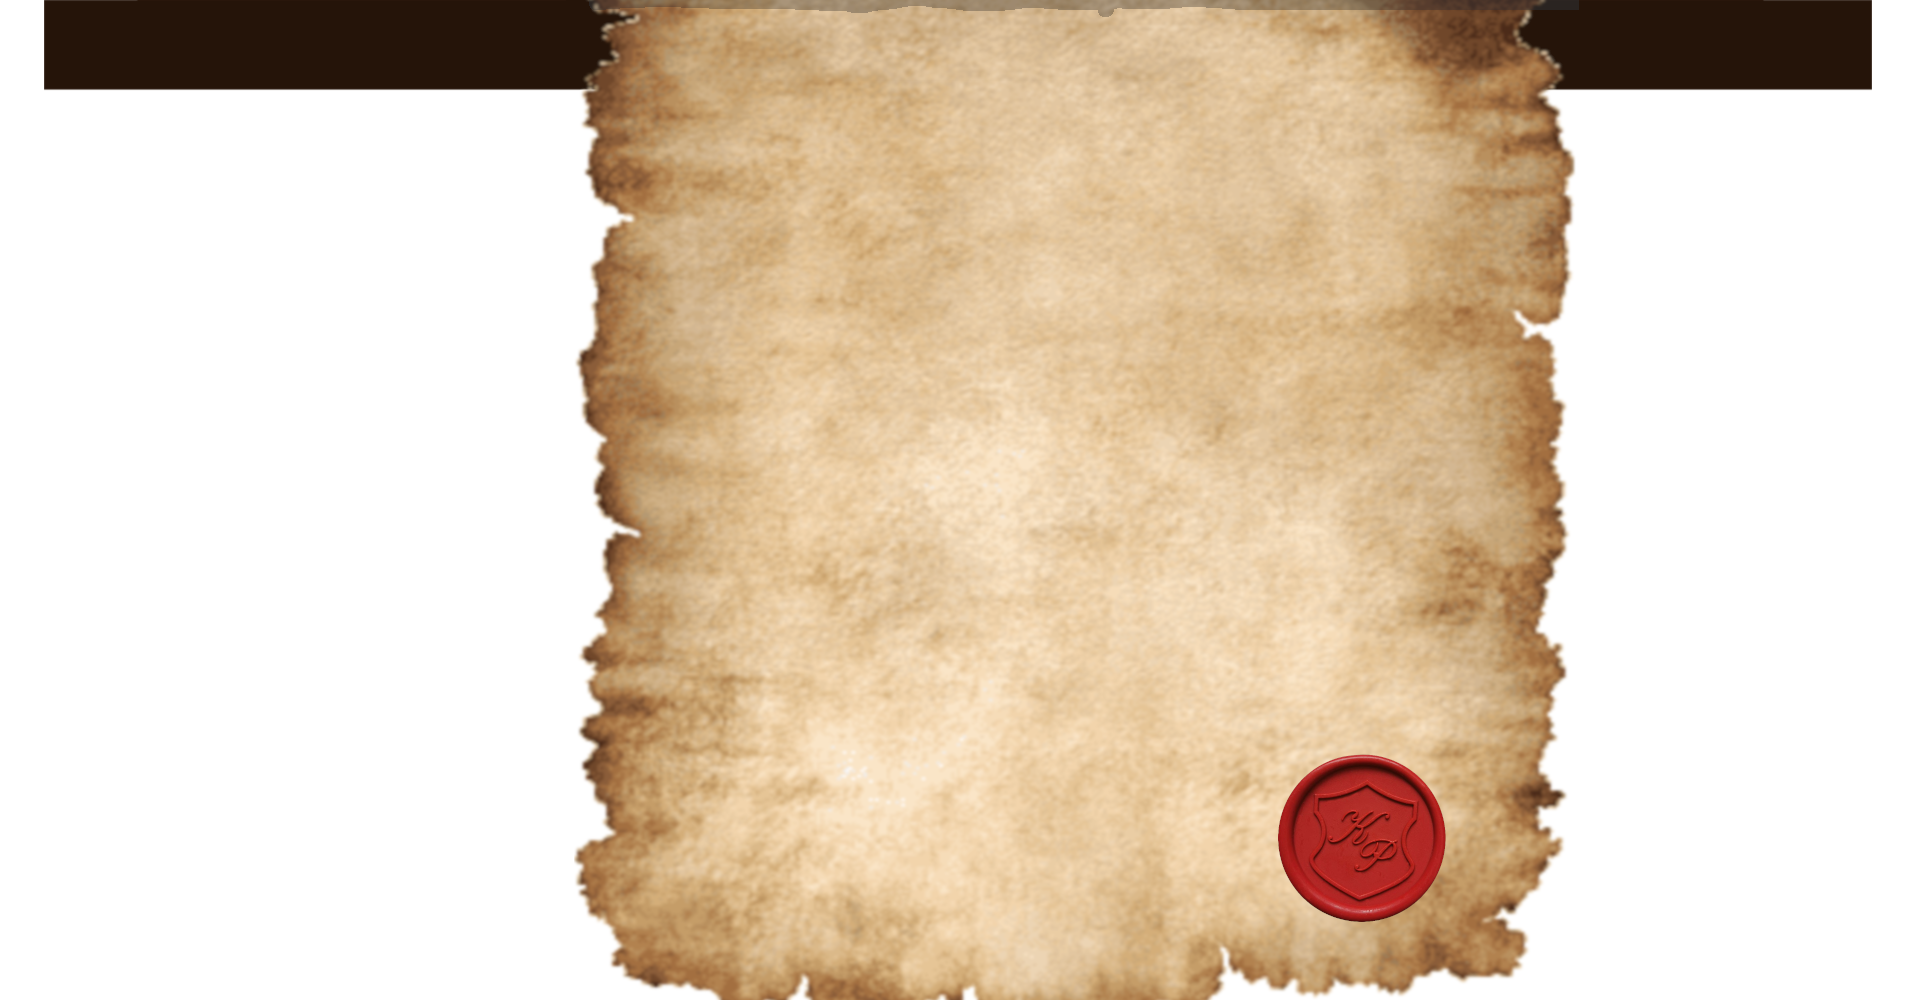
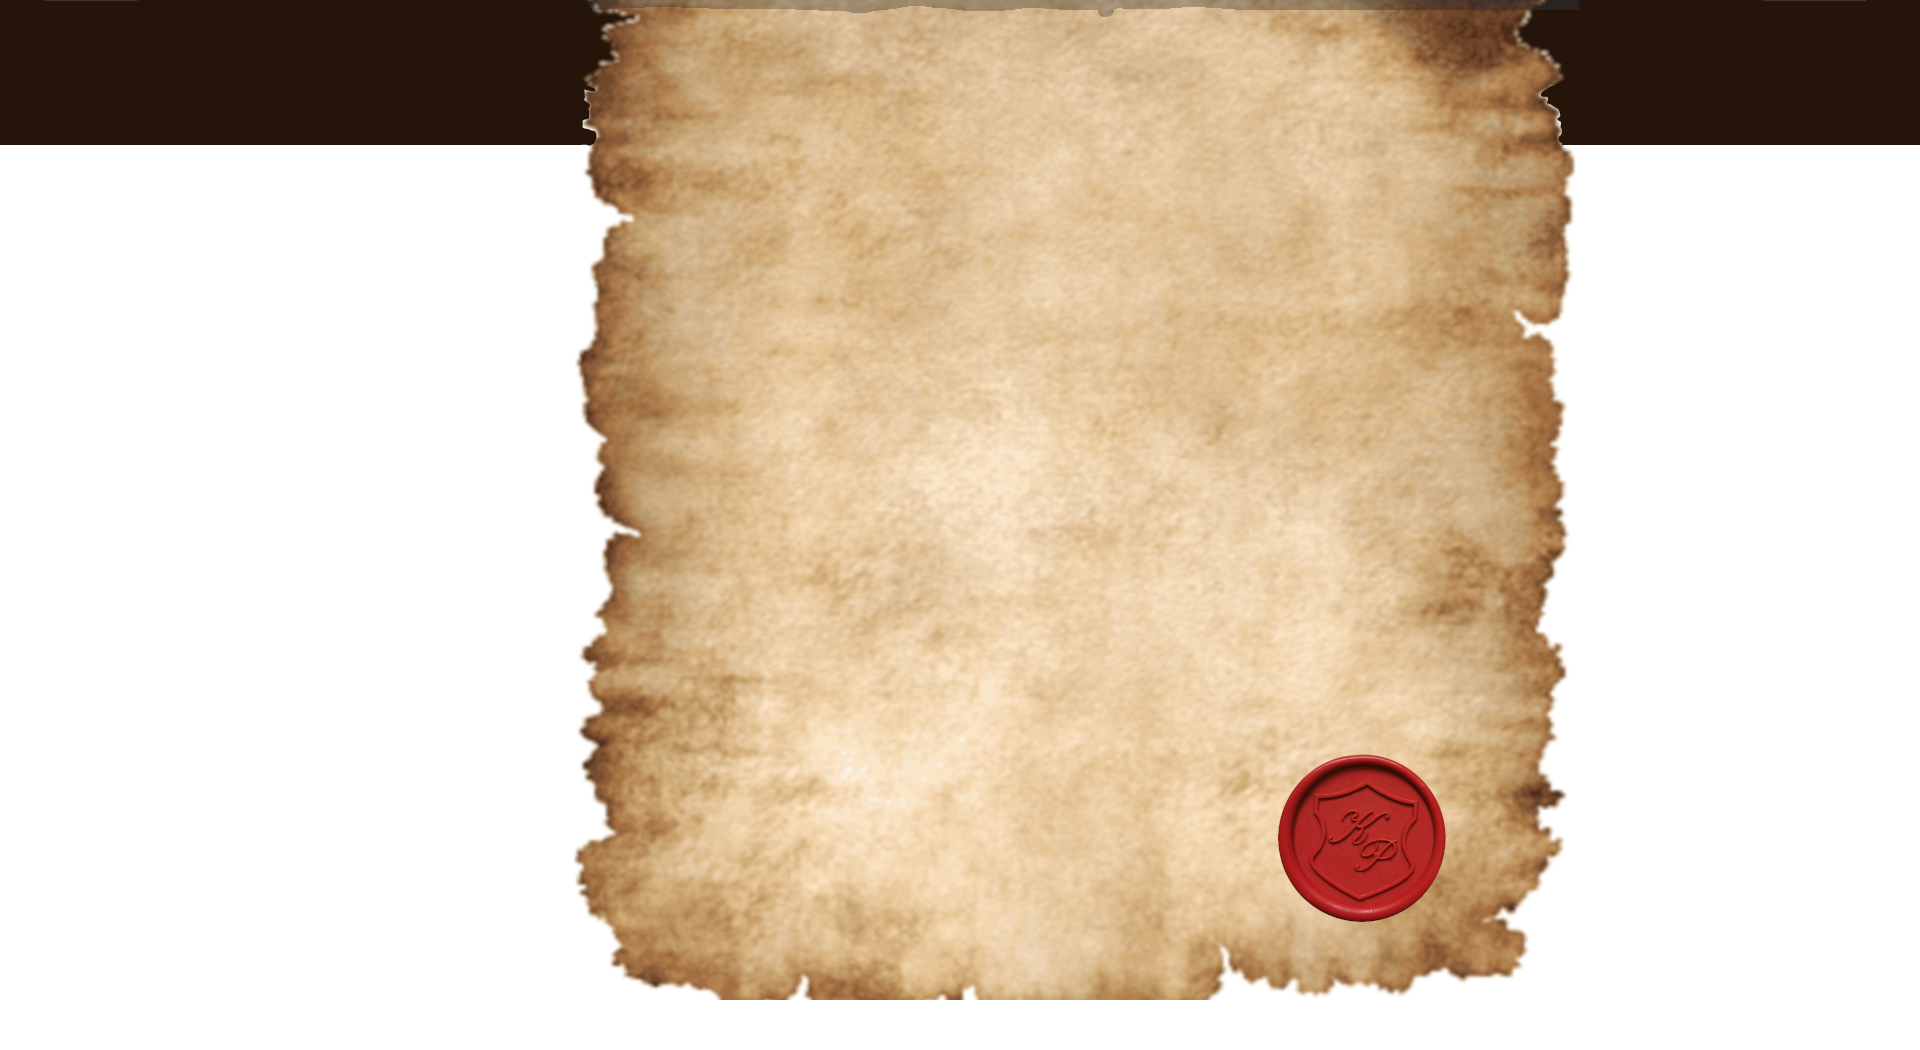
added timeline

diff --git a/src/Home.js b/src/Home.js
@@ -1,28 +1,78 @@
 import React from 'react';
 
+
 function Home({ language }) {
     React.useEffect(() => {
         document.title = language === 'PL' ? 'Strona Główna' : 'Home';
     }, [language]);
 
+
+  
     return (
         <div className="App">
             <header id="home" className="App-header">
-                <div className="hero-text-silver">
-                    
-                </div>
+                <div className="hero-text-silver"></div>
             </header>
 
             <section className="intro-section">
-                
-                <h2> {language === 'PL' ? 'Witamy w Kontuszowej, marce wykwintnej, tradycyjnie destylowanej polskiej wódki. Każda butelka to święto autentyczności.' :
-                 'Welcome to Kontuszowa, a brand of exquisite, traditionally distilled Polish vodka. Crafted with care and heritage, every bottle is a celebration of authenticity.'} </h2>
+                <h2>
+                    {language === 'PL'
+                        ? 'Witamy w Kontuszowej, marce wykwintnej, tradycyjnie destylowanej polskiej wódki. Każda butelka to święto autentyczności.'
+                        : 'Welcome to Kontuszowa, a brand of exquisite, traditionally distilled Polish vodka. Crafted with care and heritage, every bottle is a celebration of authenticity.'}
+                </h2>
             </section>
 
             <section className="centered-text-with-images">
                 <img src="szlachta1.png" alt="Szlachta 1" className="szlachta-image" />
                 <h2>{language === 'PL' ? 'OBUDŹ W SOBIE SZLACHTĘ' : 'FIND YOUR NOBLE SELF'}</h2>
                 <img src="szlachta2.png" alt="Szlachta 2" className="szlachta-image" />
+            </section>
+            {/* Timeline Section */}
+            <section className="timeline-section">
+                <h1>{language === 'PL' ? 'Poznaj Historię' : 'Discover History'}</h1>
+            <div class="hOut"><div class="hIn">
+  <div class="event">
+    <p class="eDate">966</p>
+    <p class="eTxt">{language === 'PL' ? 'Chrzest Polski – początek chrześcijańskiej kultury w Polsce, tworzenie fundamentów państwowości.' : 'Baptism of Poland – the beginning of Christian culture in Poland and the foundation of statehood.'}</p>
+  </div>
+  <div class="event">
+    <p class="eDate">XV w.</p>
+    <p class="eTxt">{language === 'PL' ? 'Pierwsze wzmianki o produkcji mocnych alkoholi – destylacja alkoholu w celach medycznych i kulinarnych. Powstanie pierwszych gorzelni przy klasztorach.' : 'First mentions of strong alcohol production – distillation of alcohol for medical and culinary purposes. The establishment of the first distilleries in monasteries.'}</p>
+  </div>
+  <div class="event">
+    <p class="eDate">1531</p>
+    <p class="eTxt">{language === 'PL' ? 'Bitwa pod Obertynem - zwycięska bitwa polskich wojsk, powstrzymująca wojska mołdawskie.' : 'Battle of Obertyn – a victorious battle by Polish forces, halting the Moldavian army.'}</p>
+  </div>
+  <div class="event">
+    <p class="eDate">1569</p>
+    <p class="eTxt">{language === 'PL' ? 'Unia Lubelska – stworzenie Rzeczpospolitej Obojga Narodów, największego państwa Europy, opierającego się na dobrowolności i współpracy.' : 'Union of Lublin – the creation of the Polish-Lithuanian Commonwealth, the largest state in Europe, based on voluntariness and cooperation.'}</p>
+  </div>
+  <div class="event">
+    <p class="eDate">1573</p>
+    <p class="eTxt">{language === 'PL' ? 'Pierwsza wolna elekcja – wybór Henryka Walezego na króla Polski, symbol polskiej demokracji szlacheckiej.' : 'First free election – the selection of Henry III of France as King of Poland, symbolizing Polish noble democracy.'}</p>
+  </div>
+  <div class="event">
+    <p class="eDate">1605</p>
+    <p class="eTxt">{language === 'PL' ? 'Bitwa pod Kircholmem - wygrana polskich wojsk, mimo 3-krotnej przewagi liczebnej przeciwnika' : 'Battle of Kircholm – a victory of Polish forces despite the enemy’s threefold numerical advantage.'}</p>
+  </div>
+  <div class="event">
+    <p class="eDate">1611</p>
+    <p class="eTxt">{language === 'PL' ? 'Bitwa pod Kłuszynem – spektakularne zwycięstwo husarii, jedno z największych sukcesów militarnych Rzeczpospolitej.' : 'Battle of Klushino – a spectacular victory of the Polish hussars, one of the greatest military achievements of the Commonwealth.'}</p>
+  </div>
+  <div class="event">
+    <p class="eDate">1659</p>
+    <p class="eTxt">{language === 'PL' ? 'Rozkwit produkcji wódki – wódka zaczyna być uważana za towar eksportowy.' : 'The flourishing of vodka production – vodka begins to be considered an export product.'}</p>
+  </div>
+  <div class="event">
+    <p class="eDate">1683</p>
+    <p class="eTxt">{language === 'PL' ? 'Odsiecz wiedeńska – zwycięstwo Jana III Sobieskiego nad armią osmańską, kluczowe wydarzenie dla Europy chrześcijańskiej.' : 'Relief of Vienna – John III Sobieski’s victory over the Ottoman army, a crucial event for Christian Europe.'}</p>
+  </div>
+  <div class="event">
+    <p class="eDate">XVIII w.</p>
+    <p class="eTxt">{language === 'PL' ? 'Złoty wiek polskiej szlachty – rozwój tradycji biesiad, polowań oraz zestawiania wódek na różne okazje.' : 'Golden age of Polish nobility – the development of traditions such as feasting, hunting, and pairing vodkas for various occasions.'}</p>
+  </div>
+ 
+</div></div>
             </section>
         </div>
     );

diff --git a/src/App.css b/src/App.css
@@ -58,7 +58,7 @@ body, html {
   background-repeat: no-repeat; /* Prevents the image from repeating */
   background-position: center bottom; /* Positions the image at the bottom center */
   min-height: 100vh; /* Full viewport height */
-
+  
   display: flex;
   justify-content: center;
   align-items: center;
@@ -578,8 +578,8 @@ padding-bottom: 20px;
   }
 
   .App-header {
-    min-height:60vh;
-    max-height:60vh;
+    min-height:45vh;
+    max-height:45vh;
   }
 
   .intro-section h2 {
@@ -587,7 +587,7 @@ padding-bottom: 20px;
   }
 
   .intro-section{
-    min-height: 50vh; /* Full viewport height */
+    min-height: 35vh; /* Full viewport height */
   }
 
   .intro-section p {
@@ -694,4 +694,59 @@ padding-bottom: 20px;
 
 }
 
+.timeline-section{
+  background-color: #b17f60;
+  padding-top: 20px;
+  padding-bottom: 20px;
+}
+
+.timeline-section h1{
+  font-size: 40px;
+}
+
+.hOut {
+  overflow-x: scroll; /* Enable horizontal scrolling */
+  scrollbar-width: none; /* For Firefox */
+  -ms-overflow-style: none; /* For Internet Explorer and Edge (Legacy) */
+}
+
+.hOut::-webkit-scrollbar {
+  display: none; /* For Chrome, Safari, and Edge */
+}
+
+.hIn {
+  display: flex;
+  padding-bottom: 10px; margin-bottom: 20px;
+  border-bottom: 3px dotted #421900;
+  min-width: fit-content; width: 100%;
+}
+
+/* (PART B) EVENTS */
+.hIn .event {
+  color: #fff; background: #421900;
+  min-width: 200px; max-width: 300px;
+  padding: 10px; margin: 10px; border-radius: 10px;
+  position: relative;
+}
+.hIn .eDate { font-weight: 700; font-size: 18px; }
+.hIn .eTxt { font-size: 14px; }
+
+/* (PART C) TIMELINE SHARED */
+.hIn .event::before, .hIn .event::after {
+  position: absolute; content: "";
+}
+
+/* (PART D) TIMELINE CIRCLE */
+.hIn .event::before {
+  bottom: -30px; left: 50%;
+  content: ""; width: 16px; height: 16px; border-radius: 50%;
+  background: #421900;
+}
+
+/* (PART E) TIMELINE "T-CONNECTOR" */
+.hIn .event::after {
+  bottom: -20px; left: calc(50% + 6px);
+  width: 1px; height: 20px;
+  border-left: 3px dotted #421900;
+}
 
